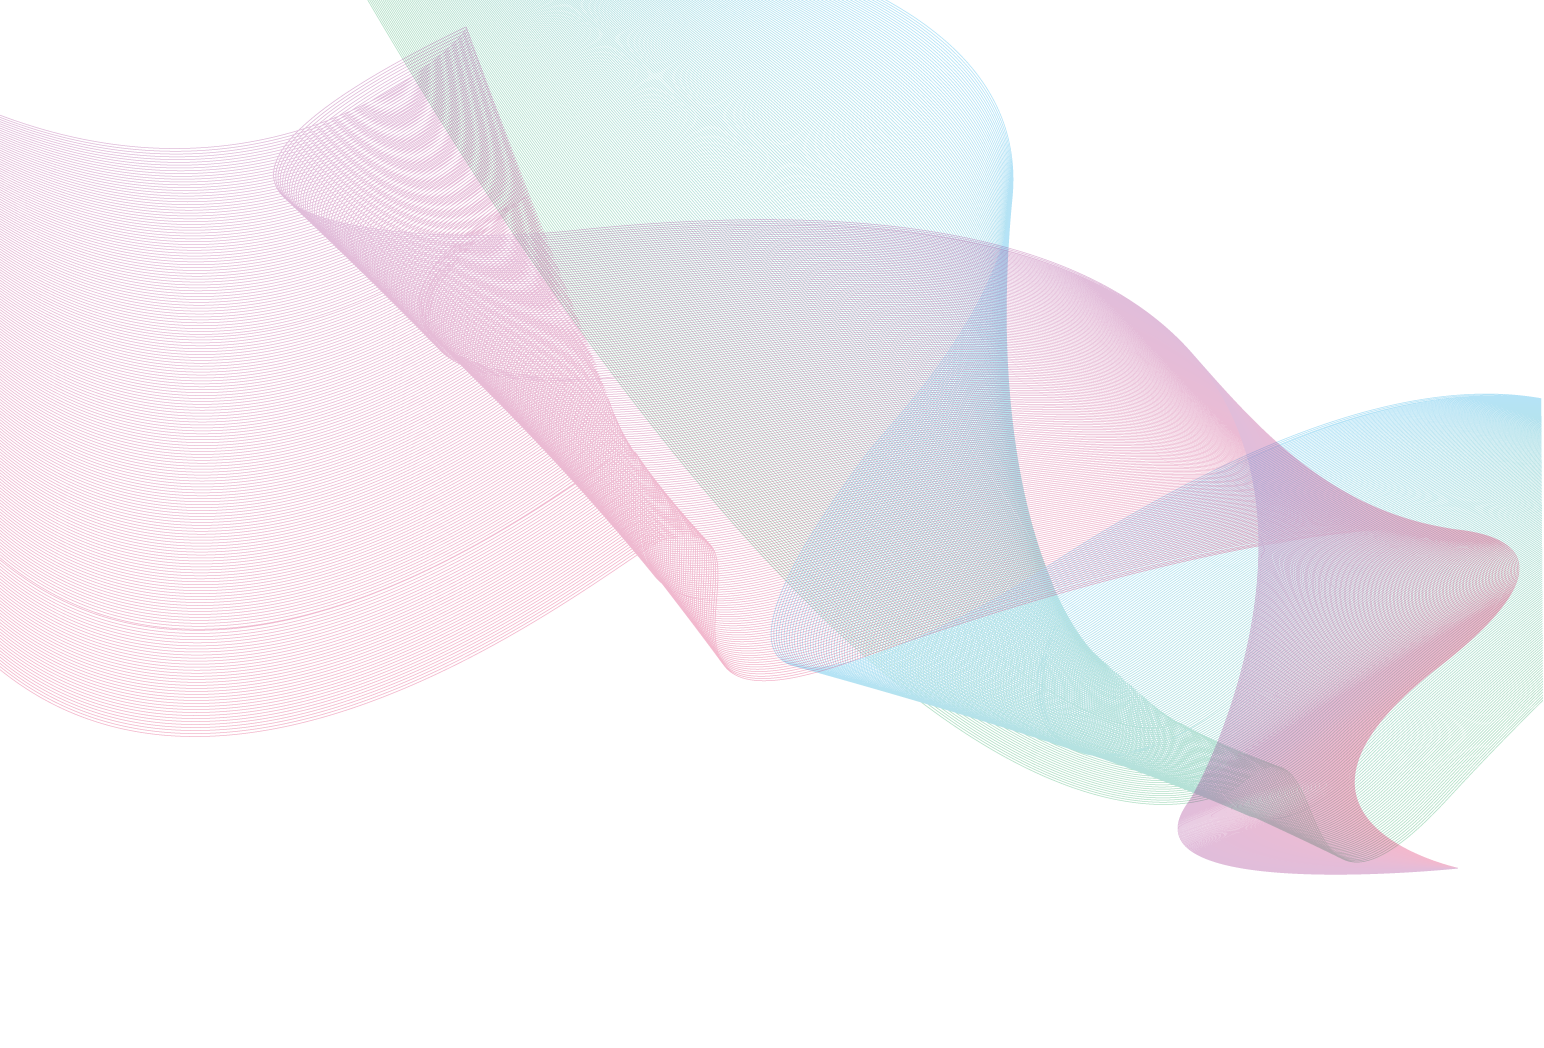
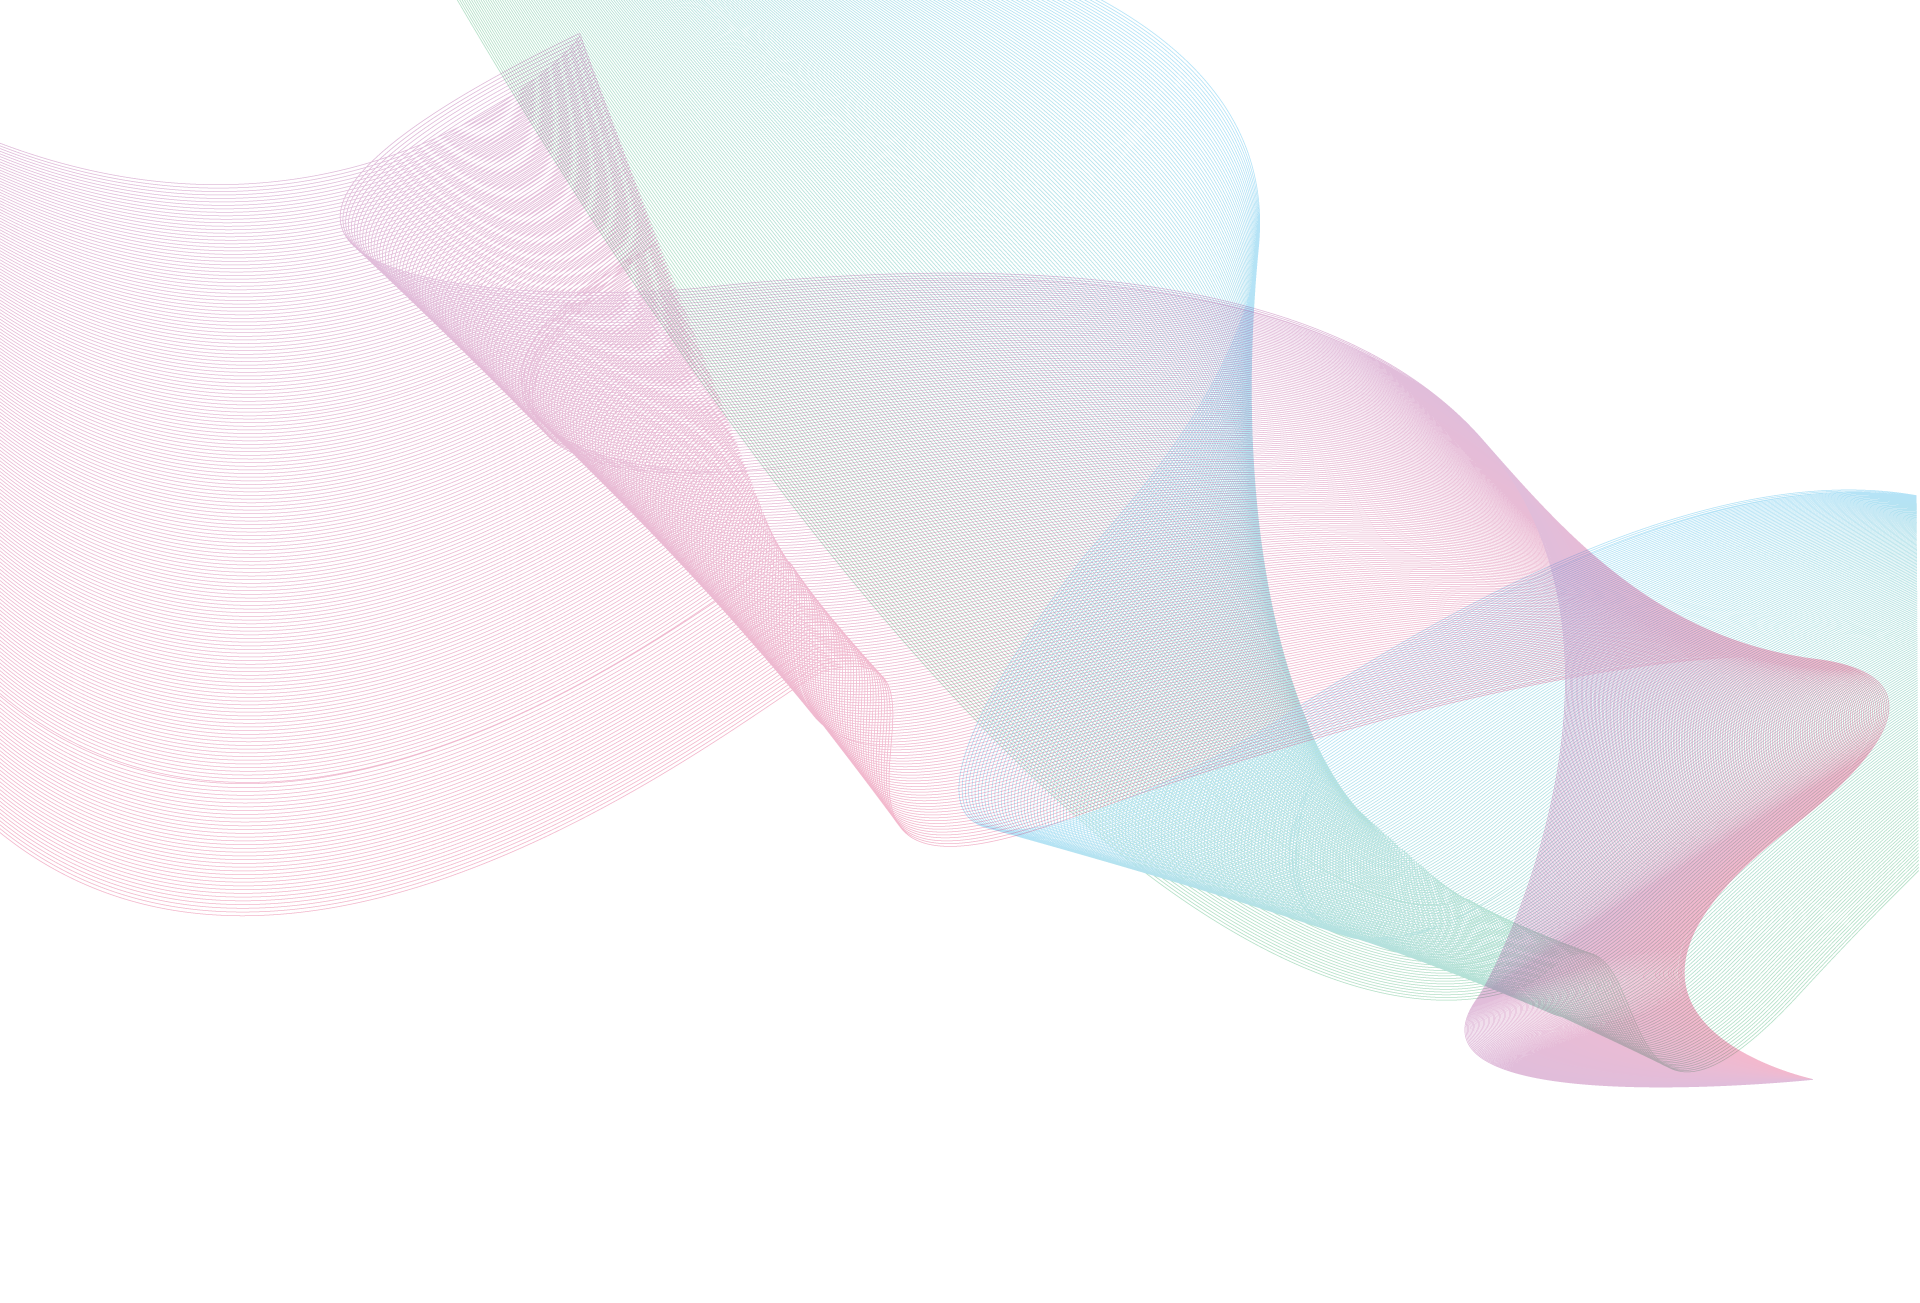
home page

diff --git a/themes/cloud_frontend/library/css/cloud-admin-frontend.css b/themes/cloud_frontend/library/css/cloud-admin-frontend.css
@@ -6763,7 +6763,19 @@ i.darkred:hover {
 
 /*JEPP*/
 
-.imageCenter{
-  margin-left: auto;
-  margin-right: auto;
+.waveCenter{
+  background: url(../../../../images/frontBGcenter.png) no-repeat;
+  background-position: left;
+  -webkit-background-size: cover;
+  -moz-background-size: cover;
+  -o-background-size: cover;
+  background-size: cover;
+  height:100%;
+  position: absolute;
+}
+
+.footerz{
+  position:absolute;
+  float:left;
+
 }

diff --git a/protected/views/site/index.php b/protected/views/site/index.php
@@ -1,79 +1,91 @@
 <!-- ABOUT UNIT -->
-<section id="about" class="color-light text-center">
-	<div class="container">
-		<div class="divide40"></div>
-		<div class="row">
-			<div class="col-md-12">
-					<h2 class="text-center">
-					<span class="bigintro">E M E R G E</span>
-					</h2>
-			</div>
-		</div>
-		<div class="divide20"></div>
-		<div class="row">
-			<div class="col-md-12 about">
-				<p>There are many variations of passages of Lorem Ipsum available, but the majority have suffered alteration in some form, by injected humour, or randomised words which don't look even slightly believable. If you are going to use a passage of Lorem Ipsum, isn't anything embarrassing hidden in the middle of text. </p><p>All the Lorem Ipsum generators on the Internet tend to repeat predefined chunks as necessary, making this the first true generator on the Internet. It uses a dictionary of over 200 Latin words, combined with a handful of model sentence structures, to generate Lorem Ipsum which looks reasonable. The generated Lorem Ipsum is therefore always free from injected humour, or non-characteristic words etc. </p>
-			</div>
-		</div>
-	</div>
-	<div class="divide40"></div>
+<section id="about" class="color-light text-center waveCenter">
+        <div class="container">
+                <div class="divide40"></div>
+                <div class="row ">
+                        <div class="col-md-12">
+                                        <h2 class="text-center">
+                                        <center><img src="images/title.png"></center>
+                                        </h2>
+                        </div>
+                </div>
+                <div class="divide20"></div>
+                <div class="row">
+                        <div class="col-md-12 about">
+                                <br>
+                                <br>
+                                <img src="images/helpMac.png">
+                                <br>
+                                <br>
+                                        <div class="col-md-6"><img src="images/saveme.png"></div>
+                                        <div class="col-md-6"><img src="images/plus.png"></div>
+                                <br>
+                                <img src="images/iphone2.png">
+                                <div class="col-md-12">
+                                        <center><div class="col-md-6"><img src="images/signup.png" height="300px"></div></center>
+                                        <!-- <div class="col-md-6"><img src="images/signup.png" height="300px"></div> -->
+                                </div>
+                        </div>
+                </div>
+        </div>
+        <div class="divide40"></div>
 </section>
 <!-- /ABOUT UNIT -->
-							
+
 <!-- SOCIAL BAR -->
-<section class="color-danger social text-center">
-	<section class="container">
-		<div class="row">
-			<div class="col-md-12">
-				<h3>Be up to date, follow us</h3>
-					<i class="fa fa-twitter-square fa-2x darkred rm20 bm10"></i>
-					<i class="fa fa-facebook-square fa-2x darkred rm20 bm10"></i>
-					<i class="fa fa-linkedin-square fa-2x darkred rm20 bm10"></i>			
-					<i class="fa fa-youtube-square fa-2x darkred rm20 bm10"></i>
-					<i class="fa fa-google-plus-square fa-2x darkred rm20 bm10"></i>
-			</div>
-		</div>
-	</section>
-</section>
-<!--/SOCIAL BAR -->
+<!-- <section class="color-danger social text-center">
+        <section class="container">
+                <div class="row">
+                        <div class="col-md-12">
+                                <h3>Be up to date, follow us</h3>
+                                        <i class="fa fa-twitter-square fa-2x darkred rm20 bm10"></i>
+                                        <i class="fa fa-facebook-square fa-2x darkred rm20 bm10"></i>
+                                        <i class="fa fa-linkedin-square fa-2x darkred rm20 bm10"></i>
+                                        <i class="fa fa-youtube-square fa-2x darkred rm20 bm10"></i>
+                                        <i class="fa fa-google-plus-square fa-2x darkred rm20 bm10"></i>
+                        </div>
+                </div>
+        </section>
+</section> --><!--/SOCIAL BAR -->
 
 <div class="modal fade" id="box-config" tabindex="-1" role="dialog" aria-labelledby="myModalLabel" aria-hidden="true">
-	<div class="modal-dialog">
-	  	<div class="modal-content">
-			<div class="modal-header">
-		  		<button type="button" class="close" data-dismiss="modal" aria-hidden="true">&times;</button>
-		  		<h4 class="modal-title">Need help?</h4>
-			</div>
-			<?php $form=$this->beginWidget('CActiveForm', array(
-				'id'=>'help-form',
-				'enableClientValidation'=>true,
-				'clientOptions'=>array(
-					'validateOnSubmit'=>true
-				),
-				'htmlOptions'=>array(
-					'role'=>'form'
-				)
-			)); ?>
-			<div class="modal-body">
-				Enter your phone number here: <br>
-		  		<input type="text" name="Help[number]" id="" class="control-form" placeholder="e.g. 09191234567">
+        <div class="modal-dialog">
+                <div class="
+modal-content">
+                        <div class="modal-header">
+                                <button type="button" class="close" data-dismiss="modal" aria-hidden="true">×</button>
+                                <h4 class="modal-title">Need help?</h4>
+                        </div>
+                        <?php $form=$this->beginWidget('CActiveForm', array(
+                                'id'=>'help-form',
+                                'enableClientValidation'=>true,
+                                'clientOptions'=>array(
+                                        'validateOnSubmit'=>true
+                                ),
+                                'htmlOptions'=>array(
+                                        'role'=>'form'
+                                )
+                        )); ?>
+                        <div class="modal-body">
+                                Enter your phone number here: <br>
+                                <input type="text" name="Help[number]" id="" class="control-form" placeholder="e.g. 09191234567">
 
-			</div>
-			<div class="modal-footer">
-			  	<button type="button" class="btn btn-default" data-dismiss="modal">Close</button>
-			  	<button type="submit" class="btn btn-primary" name="btnHelp">Submit</button>
-			</div>
-			<?php $this->endWidget(); ?>
-	  </div>
+                        </div>
+                        <div class="modal-footer">
+                                <button type="button" class="btn btn-default" data-dismiss="modal">Close</button>
+                                <button type="submit" class="btn btn-primary" name="btnHelp">Submit</button>
+                        </div>
+                        <?php $this->endWidget(); ?>
+          </div>
 </div>
 </div>
 
 <script>
-	$(document).ready(function() {
-		$('#ebutton').on('mousedown', function(){
-			$(this).attr('src','images/buttonPress.png');
-		}).on('mouseup', function() {
-			$(this).attr('src', 'images/buttonActive.png');
-		});
-	});
+        $(document).ready(function() {
+                $('#ebutton').on('mousedown', function(){
+                        $(this).attr('src','images/buttonPress.png');
+                }).on('mouseup', function() {
+                        $(this).attr('src', 'images/buttonActive.png');
+                });
+        });
 </script>

diff --git a/protected/controllers/AgencyController.php b/protected/controllers/AgencyController.php
@@ -45,7 +45,11 @@ class AgencyController extends Controller
 	}
 
 	public function actionLogs() {
-		$model = HelpLogs::model()->findByAttributes(array('agency_id'=>Yii::app()->user->id));
+		// $model = Yii::app()->db->createCommand()
+		// 	->select('users.user_firstname as firstname, users.user_lastname as lastname, agencies.agency_name, help_logs.response_date, help_logs.status')
+		// 	->from('help_logs')
+			->leftJoin()
+		$model = HelpLogs::model()->findAllByAttributes(array('agency_id'=>Yii::app()->user->id));
 		
 		$this->render('logs', array('model'=>$model));
 	}

diff --git a/protected/views/agency/logs.php b/protected/views/agency/logs.php
@@ -19,13 +19,19 @@
 			</thead>
 			<tbody>
 				<?php if($model){ ?>
-					<?php foreach($model as $key=>$value){ ?>
 					<tr>
-						<td>1</td>
-						<td>1</td>
-						<td>1</td>
-					</tr>
+					<?php foreach($model as $value){ ?>
+						<td><?php echo $value['id']; ?></td>
+						<td><?php echo $value['response_date']; ?></td>
+						<td>
+							<?php if($value['status'] == 0) {
+								echo 'On Going';
+							} else {
+								echo 'Done';
+							} ?>
+						</td>
 					<?php } ?>
+					</tr>
 				<?php } else { ?>
 				<tr>
 					<td colspan="3">No data</td>
